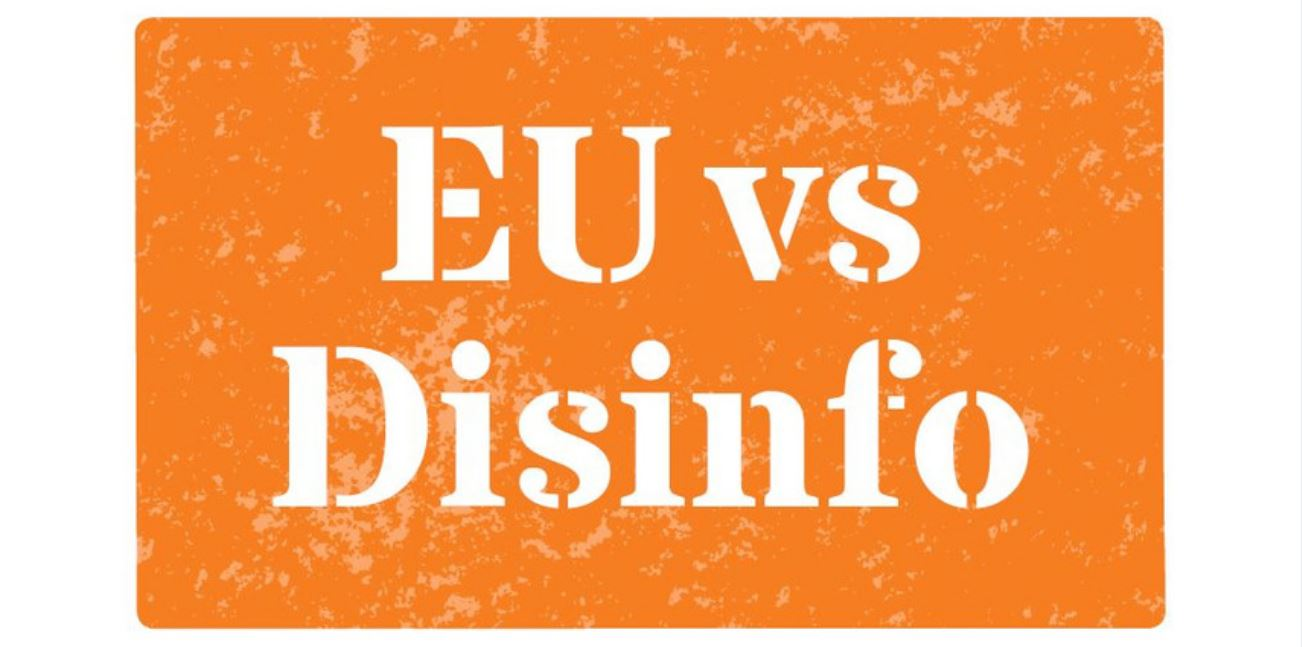
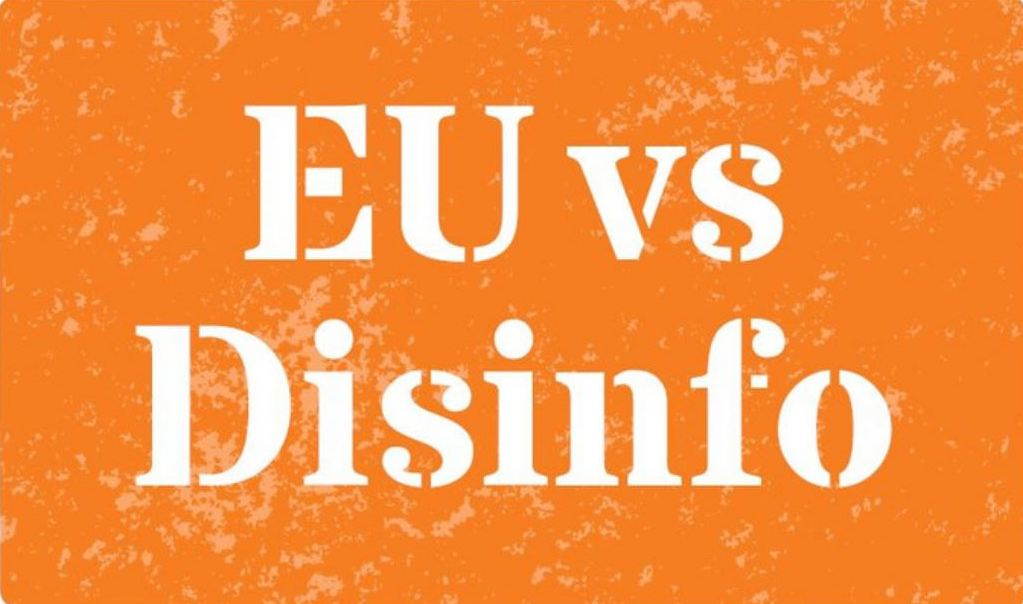
ethi link and images

diff --git a/public/post/welcome-to-my-blog/index.html b/public/post/welcome-to-my-blog/index.html
@@ -19,18 +19,18 @@
     
 
 
-<link rel="canonical" href="/post/welcome-to-my-blog/"><meta property="og:title" content="Welcome to my blog!" />
-<meta property="og:description" content="Hi there, I just created this blog to showcase my data science projects. This is my first ever blog post!" />
+<link rel="canonical" href="/post/welcome-to-my-blog/"><meta property="og:title" content="Hi there, and welcome to Just Another Data Blog!" />
+<meta property="og:description" content="Hi there, I just created this blog to showcase my data science projects and share some (hopefully) interesting content about data, social sciences and more!" />
 <meta property="og:type" content="article" />
 <meta property="og:url" content="/post/welcome-to-my-blog/" />
 <meta property="og:image" content="/lse.jpg" />
 <meta property="article:published_time" content="2020-02-05T00:00:00+00:00" />
 <meta property="article:modified_time" content="2020-02-05T00:00:00+00:00" />
-<meta itemprop="name" content="Welcome to my blog!">
-<meta itemprop="description" content="Hi there, I just created this blog to showcase my data science projects. This is my first ever blog post!">
+<meta itemprop="name" content="Hi there, and welcome to Just Another Data Blog!">
+<meta itemprop="description" content="Hi there, I just created this blog to showcase my data science projects and share some (hopefully) interesting content about data, social sciences and more!">
 <meta itemprop="datePublished" content="2020-02-05T00:00:00&#43;00:00" />
 <meta itemprop="dateModified" content="2020-02-05T00:00:00&#43;00:00" />
-<meta itemprop="wordCount" content="130">
+<meta itemprop="wordCount" content="135">
 <meta itemprop="image" content="/lse.jpg">
 
 
@@ -38,8 +38,8 @@
 <meta itemprop="keywords" content="General,About," /><meta name="twitter:card" content="summary_large_image"/>
 <meta name="twitter:image" content="/lse.jpg"/>
 
-<meta name="twitter:title" content="Welcome to my blog!"/>
-<meta name="twitter:description" content="Hi there, I just created this blog to showcase my data science projects. This is my first ever blog post!"/>
+<meta name="twitter:title" content="Hi there, and welcome to Just Another Data Blog!"/>
+<meta name="twitter:description" content="Hi there, I just created this blog to showcase my data science projects and share some (hopefully) interesting content about data, social sciences and more!"/>
 
 </head>
 <body>
@@ -74,22 +74,22 @@
                     <div class="col-lg-8">
                         <div class="meta text-muted mb-3">
                             <p class="created text-muted text-uppercase font-weight-bold mb-1">February 5, 2020</p>
-                            <span class="mr-2"><i class="fas fa-book-open mr-2"></i>130 words</span>
+                            <span class="mr-2"><i class="fas fa-book-open mr-2"></i>135 words</span>
                             <span><i class="fas fa-clock mr-2"></i>1 min read</span>
                         </div>
 
-                        <h1>Welcome to my blog!</h1>
+                        <h1>Hi there, and welcome to Just Another Data Blog!</h1>
 
                         
                     </div>
                 </div><div class="row justify-content-center mb-3">
                                 <div class="col-lg-10">
-                                    <img data-src="/images/lse_huc2640b5fadb0b3e01e22bf17b0f96a74_102112_900x500_fit_q75_box.jpg" class="img-fluid rounded mx-auto d-block" alt="Welcome to my blog!">
+                                    <img data-src="/images/lse_huc2640b5fadb0b3e01e22bf17b0f96a74_102112_900x500_fit_q75_box.jpg" class="img-fluid rounded mx-auto d-block" alt="Hi there, and welcome to Just Another Data Blog!">
                                 </div>
                             </div><div class="row justify-content-center">
                     <div class="col-lg-8">
                         <div class="content">
-                            <p>Hi there, I just created this blog to showcase my data science projects. This is my first ever blog post!</p>
+                            <p>Hi there, I just created this blog to showcase my data science projects and share some (hopefully) interesting content about data, social sciences and more!</p>
 <h2 id="who-am-i">Who am I?</h2>
 <p>My name is Alix, I&rsquo;m French and live in London. That&rsquo;s pretty much it really.</p>
 <h2 id="what-do-i-do">What do I do?</h2>
@@ -115,22 +115,22 @@
                                     <i class="fas fa-tag mr-2"></i>About
                                 </a></div><ul class="share nav my-3 justify-content-end">
         <li class="nav-item">
-            <a class="nav-link" target="_blank" href="https://twitter.com/intent/tweet?url=%2fpost%2fwelcome-to-my-blog%2f&text=Welcome%20to%20my%20blog%21">
+            <a class="nav-link" target="_blank" href="https://twitter.com/intent/tweet?url=%2fpost%2fwelcome-to-my-blog%2f&text=Hi%20there%2c%20and%20welcome%20to%20Just%20Another%20Data%20Blog%21">
               <i class="fa-fw fab fa-twitter"></i>
           </a>
         </li>
         <li class="nav-item">
-            <a class="nav-link" target="_blank" href="https://www.linkedin.com/shareArticle?url=%2fpost%2fwelcome-to-my-blog%2f&title=Welcome%20to%20my%20blog%21">
+            <a class="nav-link" target="_blank" href="https://www.linkedin.com/shareArticle?url=%2fpost%2fwelcome-to-my-blog%2f&title=Hi%20there%2c%20and%20welcome%20to%20Just%20Another%20Data%20Blog%21">
                 <i class="fa-fw fab fa-linkedin-in"></i>
             </a>
         </li>
         <li class="nav-item">
-            <a class="nav-link" target="_blank" href="https://www.facebook.com/sharer.php?u=%2fpost%2fwelcome-to-my-blog%2f&t=Welcome%20to%20my%20blog%21">
+            <a class="nav-link" target="_blank" href="https://www.facebook.com/sharer.php?u=%2fpost%2fwelcome-to-my-blog%2f&t=Hi%20there%2c%20and%20welcome%20to%20Just%20Another%20Data%20Blog%21">
                 <i class="fa-fw fab fa-facebook-f"></i>
             </a>
         </li>
         <li class="nav-item">
-            <a class="nav-link" target="_blank" href="https://reddit.com/submit?url=%2fpost%2fwelcome-to-my-blog%2f&title=Welcome%20to%20my%20blog%21">
+            <a class="nav-link" target="_blank" href="https://reddit.com/submit?url=%2fpost%2fwelcome-to-my-blog%2f&title=Hi%20there%2c%20and%20welcome%20to%20Just%20Another%20Data%20Blog%21">
                 <i class="fa-fw fab fa-reddit-alien"></i>
             </a>
         </li>

diff --git a/public/post/hacking-disinformation-with-the-eu/index.html b/public/post/hacking-disinformation-with-the-eu/index.html
@@ -23,7 +23,7 @@
 <meta property="og:description" content="I recently took part in the Disinformation Horizon Hackathon organised by the East StratCom Task Force dedicated to the fight against Russian disinformation using data." />
 <meta property="og:type" content="article" />
 <meta property="og:url" content="/post/hacking-disinformation-with-the-eu/" />
-<meta property="og:image" content="/disinfo.png" />
+<meta property="og:image" content="/Disinfo-Banner.png" />
 <meta property="article:published_time" content="2020-02-05T00:00:00+00:00" />
 <meta property="article:modified_time" content="2020-02-05T00:00:00+00:00" />
 <meta itemprop="name" content="Hacking Disinformation with the European External Action Service">
@@ -31,12 +31,12 @@
 <meta itemprop="datePublished" content="2020-02-05T00:00:00&#43;00:00" />
 <meta itemprop="dateModified" content="2020-02-05T00:00:00&#43;00:00" />
 <meta itemprop="wordCount" content="627">
-<meta itemprop="image" content="/disinfo.png">
+<meta itemprop="image" content="/Disinfo-Banner.png">
 
 
 
 <meta itemprop="keywords" content="shiny,R,visualisation,politics,hackathons," /><meta name="twitter:card" content="summary_large_image"/>
-<meta name="twitter:image" content="/disinfo.png"/>
+<meta name="twitter:image" content="/Disinfo-Banner.png"/>
 
 <meta name="twitter:title" content="Hacking Disinformation with the European External Action Service"/>
 <meta name="twitter:description" content="I recently took part in the Disinformation Horizon Hackathon organised by the East StratCom Task Force dedicated to the fight against Russian disinformation using data."/>
@@ -89,7 +89,7 @@
                     </div>
                 </div><div class="row justify-content-center mb-3">
                                 <div class="col-lg-10">
-                                    <img data-src="/images/disinfo_hu3e8e6c0c1baeeddc1930a911245ab433_488206_900x500_fit_box_2.png" class="img-fluid rounded mx-auto d-block" alt="Hacking Disinformation with the European External Action Service">
+                                    <img data-src="/images/DIsinfo-Banner_hu926ca24ac8102f846fa1042dfdd1d4f1_258108_900x500_fit_box_2.png" class="img-fluid rounded mx-auto d-block" alt="Hacking Disinformation with the European External Action Service">
                                 </div>
                             </div><div class="row justify-content-center">
                     <div class="col-lg-8">

diff --git a/public/post/digital-voting-and-blockchain-good-or-bad-idea/index.html b/public/post/digital-voting-and-blockchain-good-or-bad-idea/index.html
@@ -94,7 +94,6 @@
 <p>Introducing digital to facilitate the democratic process is increasingly common: the Iowa caucus app is a recent and much discussed example. But digital tools have the power to do much more than reporting results with examples of apps that enhance public debate, direct democracy, idea generation and more. A trickier application of technology in governance and democracy is digital voting or e-voting with issues related to access, security, transparency and trust. The presentation below introduces some key aspects of digital voting, in particular powered by blockchain.</p>
 <h2 id="e-voting-powered-by-blockchain">E-voting powered by blockchain</h2>
 <p>I created it as part of an application for a VC and incubator specialised in blockchain. I found that information about the topic was scattered across the web so I thought an exhaustive overview of the question might be worth sharing. It dates back to March 2019 but hopefully most of it is still up to date!</p>
-<p><img src="/images/Slide1.png" alt="slide1"></p>
 <p><img src="/images/Slide2.png" alt="slide2"></p>
 <p><img src="/images/Slide3.png" alt="slide3"></p>
 <p><img src="/images/Slide4.png" alt="slide4"></p>
@@ -160,7 +159,7 @@
     <div class="related-content row mt-5 row-cols-1 row-cols-lg-3"><div class="col mb-3">
                 <div class="card h-100">
     
-    <a href="/post/hacking-disinformation-with-the-eu/" class="d-block"><img data-src="/images/disinfo_hu3e8e6c0c1baeeddc1930a911245ab433_488206_700x350_resize_box_2.png" class="card-img-top mx-auto d-block" alt="Hacking Disinformation with the European External Action Service"><div class="card-body">
+    <a href="/post/hacking-disinformation-with-the-eu/" class="d-block"><img data-src="/images/DIsinfo-Banner_hu926ca24ac8102f846fa1042dfdd1d4f1_258108_700x350_resize_box_2.png" class="card-img-top mx-auto d-block" alt="Hacking Disinformation with the European External Action Service"><div class="card-body">
             <h4 class="card-title">Hacking Disinformation with the European External Action Service</h4>
             <p class="card-text text-muted text-uppercase">February 5, 2020</p>
             <div class="card-text">

diff --git a/public/index.html b/public/index.html
@@ -83,7 +83,7 @@
             <div class="col mb-3">
                 <div class="card h-100">
     
-    <a href="/post/hacking-disinformation-with-the-eu/" class="d-block"><img data-src="/images/disinfo_hu3e8e6c0c1baeeddc1930a911245ab433_488206_700x350_resize_box_2.png" class="card-img-top mx-auto d-block" alt="Hacking Disinformation with the European External Action Service"><div class="card-body">
+    <a href="/post/hacking-disinformation-with-the-eu/" class="d-block"><img data-src="/images/DIsinfo-Banner_hu926ca24ac8102f846fa1042dfdd1d4f1_258108_700x350_resize_box_2.png" class="card-img-top mx-auto d-block" alt="Hacking Disinformation with the European External Action Service"><div class="card-body">
             <h4 class="card-title">Hacking Disinformation with the European External Action Service</h4>
             <p class="card-text text-muted text-uppercase">February 5, 2020</p>
             <div class="card-text">
@@ -99,11 +99,11 @@
             <div class="col mb-3">
                 <div class="card h-100">
     
-    <a href="/post/welcome-to-my-blog/" class="d-block"><img data-src="/images/lse_huc2640b5fadb0b3e01e22bf17b0f96a74_102112_700x350_resize_q75_box.jpg" class="card-img-top mx-auto d-block" alt="Welcome to my blog!"><div class="card-body">
-            <h4 class="card-title">Welcome to my blog!</h4>
+    <a href="/post/welcome-to-my-blog/" class="d-block"><img data-src="/images/lse_huc2640b5fadb0b3e01e22bf17b0f96a74_102112_700x350_resize_q75_box.jpg" class="card-img-top mx-auto d-block" alt="Hi there, and welcome to Just Another Data Blog!"><div class="card-body">
+            <h4 class="card-title">Hi there, and welcome to Just Another Data Blog!</h4>
             <p class="card-text text-muted text-uppercase">February 5, 2020</p>
             <div class="card-text">
-                Hi there, I just created this blog to showcase my data science projects. This is my first ever blog post!
+                Hi there, I just created this blog to showcase my data science projects and share some (hopefully) interesting content about data, social sciences and more!
 
             </div>
         </div>

diff --git a/public/post/index.html b/public/post/index.html
@@ -79,7 +79,7 @@
             <div class="col mb-3">
                 <div class="card h-100">
     
-    <a href="/post/hacking-disinformation-with-the-eu/" class="d-block"><img data-src="/images/disinfo_hu3e8e6c0c1baeeddc1930a911245ab433_488206_700x350_resize_box_2.png" class="card-img-top mx-auto d-block" alt="Hacking Disinformation with the European External Action Service"><div class="card-body">
+    <a href="/post/hacking-disinformation-with-the-eu/" class="d-block"><img data-src="/images/DIsinfo-Banner_hu926ca24ac8102f846fa1042dfdd1d4f1_258108_700x350_resize_box_2.png" class="card-img-top mx-auto d-block" alt="Hacking Disinformation with the European External Action Service"><div class="card-body">
             <h4 class="card-title">Hacking Disinformation with the European External Action Service</h4>
             <p class="card-text text-muted text-uppercase">February 5, 2020</p>
             <div class="card-text">
@@ -95,11 +95,11 @@
             <div class="col mb-3">
                 <div class="card h-100">
     
-    <a href="/post/welcome-to-my-blog/" class="d-block"><img data-src="/images/lse_huc2640b5fadb0b3e01e22bf17b0f96a74_102112_700x350_resize_q75_box.jpg" class="card-img-top mx-auto d-block" alt="Welcome to my blog!"><div class="card-body">
-            <h4 class="card-title">Welcome to my blog!</h4>
+    <a href="/post/welcome-to-my-blog/" class="d-block"><img data-src="/images/lse_huc2640b5fadb0b3e01e22bf17b0f96a74_102112_700x350_resize_q75_box.jpg" class="card-img-top mx-auto d-block" alt="Hi there, and welcome to Just Another Data Blog!"><div class="card-body">
+            <h4 class="card-title">Hi there, and welcome to Just Another Data Blog!</h4>
             <p class="card-text text-muted text-uppercase">February 5, 2020</p>
             <div class="card-text">
-                Hi there, I just created this blog to showcase my data science projects. This is my first ever blog post!
+                Hi there, I just created this blog to showcase my data science projects and share some (hopefully) interesting content about data, social sciences and more!
 
             </div>
         </div>

diff --git a/public/about/index.html b/public/about/index.html
@@ -71,7 +71,7 @@
 
                         <div class="content">
                             <h5 id="this-is-meimagesmepng-alix-dumoulin-21--living-in-"><img src="/images/me.png" alt="this is me"> Alix Dumoulin, 21 🇫🇷 living in 🇬🇧</h5>
-<p>Hi, welcome to my blog! I am an <strong>Applied Social Data Science</strong> student at <strong>The London School of Economics</strong> and I created this blog to share my projects and some (hopefully) interesting content about <strong>social data science</strong> and <strong>computational social science</strong>. I am also the co-founder of a start-up called <strong>ethi</strong>: we are building a tool for people to reclaim, control, and use their <strong>personal data</strong>, learn more about it <a href="https://ethi.webflow.io">here</a>!</p>
+<p>Hi, welcome to my blog! I am an <strong>Applied Social Data Science</strong> student at <strong>The London School of Economics</strong> and I created this blog to share my projects and some (hopefully) interesting content about <strong>social data science</strong> and <strong>computational social science</strong>. I am also the co-founder of a start-up called <strong>ethi</strong>: we are building a tool for people to reclaim, control, and use their <strong>personal data</strong>, learn more about it <a href="https://ethi.me">here</a>!</p>
 <h4 id="education">Education</h4>
 <ul>
 <li>MSc Applied Social Data Science @ <strong>The London School of Economics (LSE)</strong></li>

diff --git a/public/categories/general/index.html b/public/categories/general/index.html
@@ -63,11 +63,11 @@
             <div class="col mb-3">
                 <div class="card h-100">
     
-    <a href="/post/welcome-to-my-blog/" class="d-block"><img data-src="/images/lse_huc2640b5fadb0b3e01e22bf17b0f96a74_102112_700x350_resize_q75_box.jpg" class="card-img-top mx-auto d-block" alt="Welcome to my blog!"><div class="card-body">
-            <h4 class="card-title">Welcome to my blog!</h4>
+    <a href="/post/welcome-to-my-blog/" class="d-block"><img data-src="/images/lse_huc2640b5fadb0b3e01e22bf17b0f96a74_102112_700x350_resize_q75_box.jpg" class="card-img-top mx-auto d-block" alt="Hi there, and welcome to Just Another Data Blog!"><div class="card-body">
+            <h4 class="card-title">Hi there, and welcome to Just Another Data Blog!</h4>
             <p class="card-text text-muted text-uppercase">February 5, 2020</p>
             <div class="card-text">
-                Hi there, I just created this blog to showcase my data science projects. This is my first ever blog post!
+                Hi there, I just created this blog to showcase my data science projects and share some (hopefully) interesting content about data, social sciences and more!
 
             </div>
         </div>

diff --git a/public/tags/about/index.html b/public/tags/about/index.html
@@ -63,11 +63,11 @@
             <div class="col mb-3">
                 <div class="card h-100">
     
-    <a href="/post/welcome-to-my-blog/" class="d-block"><img data-src="/images/lse_huc2640b5fadb0b3e01e22bf17b0f96a74_102112_700x350_resize_q75_box.jpg" class="card-img-top mx-auto d-block" alt="Welcome to my blog!"><div class="card-body">
-            <h4 class="card-title">Welcome to my blog!</h4>
+    <a href="/post/welcome-to-my-blog/" class="d-block"><img data-src="/images/lse_huc2640b5fadb0b3e01e22bf17b0f96a74_102112_700x350_resize_q75_box.jpg" class="card-img-top mx-auto d-block" alt="Hi there, and welcome to Just Another Data Blog!"><div class="card-body">
+            <h4 class="card-title">Hi there, and welcome to Just Another Data Blog!</h4>
             <p class="card-text text-muted text-uppercase">February 5, 2020</p>
             <div class="card-text">
-                Hi there, I just created this blog to showcase my data science projects. This is my first ever blog post!
+                Hi there, I just created this blog to showcase my data science projects and share some (hopefully) interesting content about data, social sciences and more!
 
             </div>
         </div>

diff --git a/public/tags/general/index.html b/public/tags/general/index.html
@@ -63,11 +63,11 @@
             <div class="col mb-3">
                 <div class="card h-100">
     
-    <a href="/post/welcome-to-my-blog/" class="d-block"><img data-src="/images/lse_huc2640b5fadb0b3e01e22bf17b0f96a74_102112_700x350_resize_q75_box.jpg" class="card-img-top mx-auto d-block" alt="Welcome to my blog!"><div class="card-body">
-            <h4 class="card-title">Welcome to my blog!</h4>
+    <a href="/post/welcome-to-my-blog/" class="d-block"><img data-src="/images/lse_huc2640b5fadb0b3e01e22bf17b0f96a74_102112_700x350_resize_q75_box.jpg" class="card-img-top mx-auto d-block" alt="Hi there, and welcome to Just Another Data Blog!"><div class="card-body">
+            <h4 class="card-title">Hi there, and welcome to Just Another Data Blog!</h4>
             <p class="card-text text-muted text-uppercase">February 5, 2020</p>
             <div class="card-text">
-                Hi there, I just created this blog to showcase my data science projects. This is my first ever blog post!
+                Hi there, I just created this blog to showcase my data science projects and share some (hopefully) interesting content about data, social sciences and more!
 
             </div>
         </div>

diff --git a/public/categories/short-projects/index.html b/public/categories/short-projects/index.html
@@ -63,7 +63,7 @@
             <div class="col mb-3">
                 <div class="card h-100">
     
-    <a href="/post/hacking-disinformation-with-the-eu/" class="d-block"><img data-src="/images/disinfo_hu3e8e6c0c1baeeddc1930a911245ab433_488206_700x350_resize_box_2.png" class="card-img-top mx-auto d-block" alt="Hacking Disinformation with the European External Action Service"><div class="card-body">
+    <a href="/post/hacking-disinformation-with-the-eu/" class="d-block"><img data-src="/images/DIsinfo-Banner_hu926ca24ac8102f846fa1042dfdd1d4f1_258108_700x350_resize_box_2.png" class="card-img-top mx-auto d-block" alt="Hacking Disinformation with the European External Action Service"><div class="card-body">
             <h4 class="card-title">Hacking Disinformation with the European External Action Service</h4>
             <p class="card-text text-muted text-uppercase">February 5, 2020</p>
             <div class="card-text">

diff --git a/public/tags/hackathons/index.html b/public/tags/hackathons/index.html
@@ -63,7 +63,7 @@
             <div class="col mb-3">
                 <div class="card h-100">
     
-    <a href="/post/hacking-disinformation-with-the-eu/" class="d-block"><img data-src="/images/disinfo_hu3e8e6c0c1baeeddc1930a911245ab433_488206_700x350_resize_box_2.png" class="card-img-top mx-auto d-block" alt="Hacking Disinformation with the European External Action Service"><div class="card-body">
+    <a href="/post/hacking-disinformation-with-the-eu/" class="d-block"><img data-src="/images/DIsinfo-Banner_hu926ca24ac8102f846fa1042dfdd1d4f1_258108_700x350_resize_box_2.png" class="card-img-top mx-auto d-block" alt="Hacking Disinformation with the European External Action Service"><div class="card-body">
             <h4 class="card-title">Hacking Disinformation with the European External Action Service</h4>
             <p class="card-text text-muted text-uppercase">February 5, 2020</p>
             <div class="card-text">

diff --git a/public/tags/politics/index.html b/public/tags/politics/index.html
@@ -79,7 +79,7 @@
             <div class="col mb-3">
                 <div class="card h-100">
     
-    <a href="/post/hacking-disinformation-with-the-eu/" class="d-block"><img data-src="/images/disinfo_hu3e8e6c0c1baeeddc1930a911245ab433_488206_700x350_resize_box_2.png" class="card-img-top mx-auto d-block" alt="Hacking Disinformation with the European External Action Service"><div class="card-body">
+    <a href="/post/hacking-disinformation-with-the-eu/" class="d-block"><img data-src="/images/DIsinfo-Banner_hu926ca24ac8102f846fa1042dfdd1d4f1_258108_700x350_resize_box_2.png" class="card-img-top mx-auto d-block" alt="Hacking Disinformation with the European External Action Service"><div class="card-body">
             <h4 class="card-title">Hacking Disinformation with the European External Action Service</h4>
             <p class="card-text text-muted text-uppercase">February 5, 2020</p>
             <div class="card-text">
